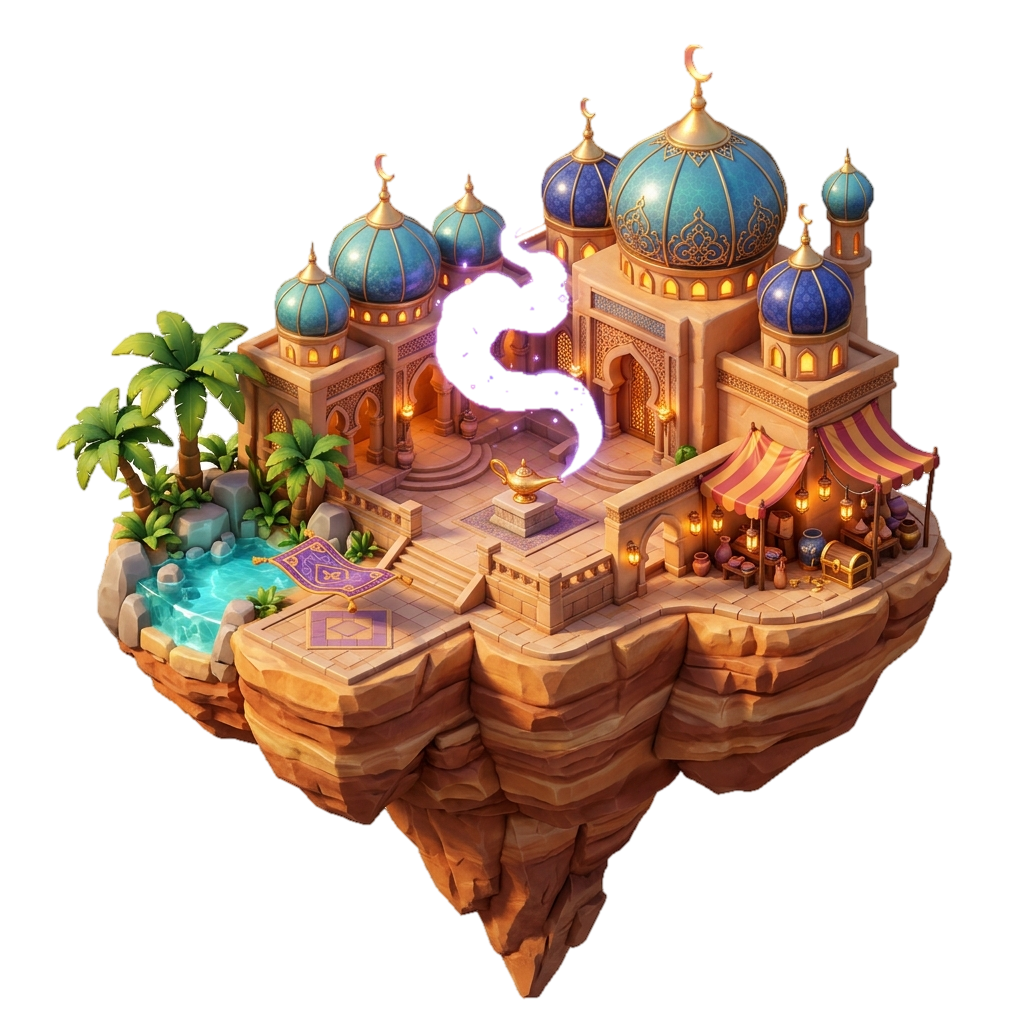
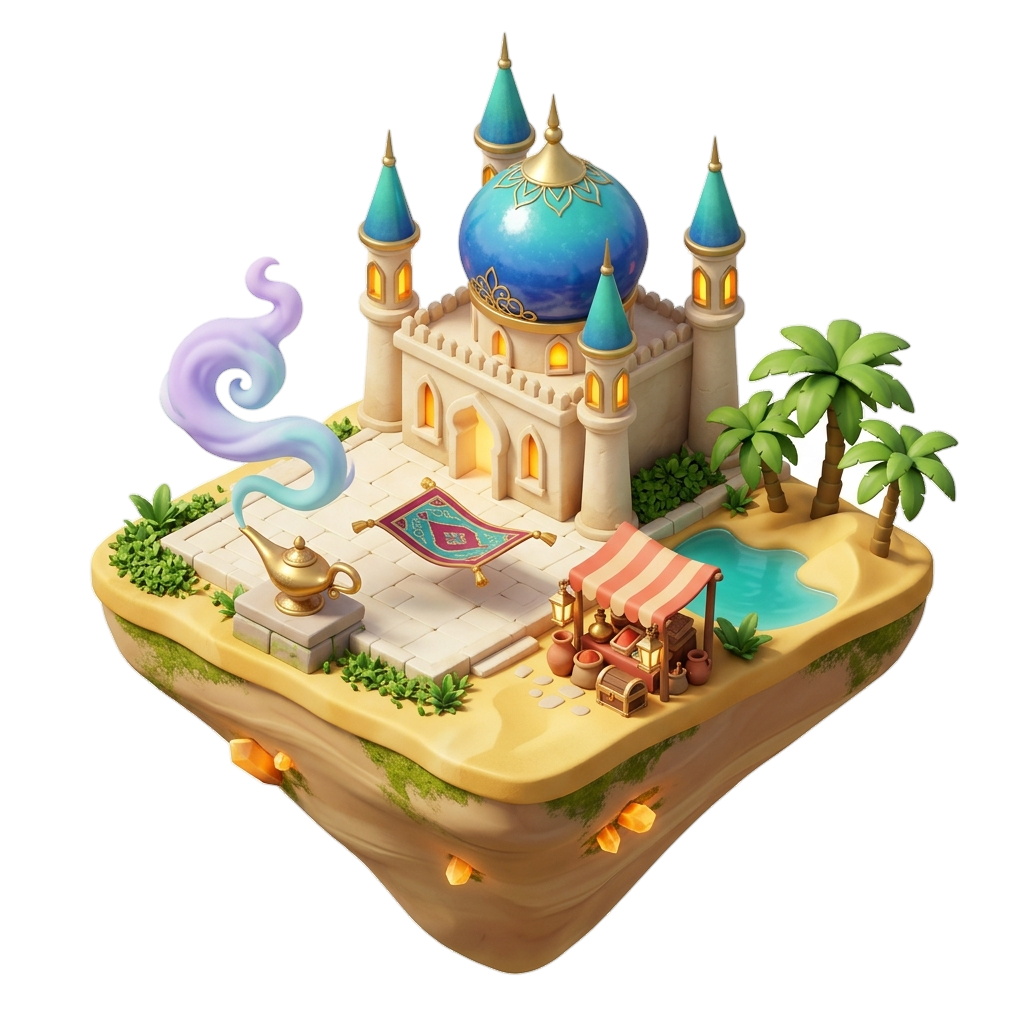
feat(assets): redesign arabian nights floating island diorama from scratch

diff --git a/.claude/superpowers/specs/2026-11-23-arabian-nights-redesign-from-scratch-spec.md b/.claude/superpowers/specs/2026-11-23-arabian-nights-redesign-from-scratch-spec.md
@@ -1,0 +1,36 @@
+# Design Specification: Redesign 3D Fantasy Island From Scratch — Ốc Đảo Nghìn Lẻ Một Đêm (Arabian Nights)
+
+- **Date:** 2026-11-23
+- **Status:** Completed & Integrated
+- **Role:** Senior 3D Environment & Asset Artist
+- **Target Asset:** `src/public/assets/planets/planet_arabian_nights.png` (and WebP)
+- **Reference Standards:** `planet_melody_island.png`, `planet_candy_wonderland.png`, `planet_coral_wonderland.png`
+
+---
+
+## 1. Vấn Đề Cốt Lõi Cần Khắc Phục
+
+1. **Khắc phục triệt để lỗi thủng cấu trúc:**
+   - Phiên bản trước tồn tại khoảng trống xuyên qua cung điện làm lộ background.
+   - Phiên bản mới tái tạo toàn bộ mặt đảo thành **một khối địa hình liên tục, vững chắc, 0 lỗ thủng xuyên qua đảo**.
+   - Cung điện, tháp, sân đá, cồn cát và ốc đảo gắn kết hữu cơ trên nền móng sa thạch vững chãi.
+2. **Thiết kế lại cung điện trung tâm:**
+   - Không chồng chất nhiều tháp chen chúc.
+   - Một cung điện trung tâm nguy nga chiếm 35–40% diện tích, mái vòm củ hành men gốm xanh Sapphire và Turquoise viền vàng kim hoàng gia.
+   - Tường sa thạch màu kem cát ấm, ô cửa vòm phát ánh sáng vàng ấm cúng.
+3. **Thế giới cổ tích sống động:**
+   - **Tiền cảnh trái:** Đèn thần vàng đồng trên bệ đá, tỏa làn khói thần kỳ tím lavender uốn lượn mềm mại.
+   - **Phía trên trái:** Tấm thảm bay đỏ ruby và xanh ngọc có tua rua vàng lơ lửng trong không khí.
+   - **Bên phải:** Khu chợ Ả Rập mái bạt sọc đỏ san hô - kem, rương kho báu hé mở ánh vàng, bình gốm và đèn lồng.
+   - **Xung quanh:** 3 cây chà là tán lá tròn mềm, hồ ốc đảo nước xanh turquoise tĩnh lặng, cồn cát vàng sa thạc. Tuyệt đối không có sông hay thác nước.
+4. **Đế đảo nổi:**
+   - Khối đá sa thạch tự nhiên hình nón ngược thuôn gọn, đường nét bo tròn mềm mại, không có góc cạnh sắc nhọn thô cứng.
+
+---
+
+## 2. Kiểm Soát Alpha & Bóc Tách
+
+- Render trên nền trắng phẳng studio (`#FFFFFF`).
+- Kênh alpha liên tục, subpixel anti-aliasing.
+- Thuật toán Telea inpainting khử lem màu viền, loại bỏ 100% viền đen và viền trắng mờ trên mọi màu nền.
+- Căn giữa tuyệt đối trong khung hình 1024x1024.
